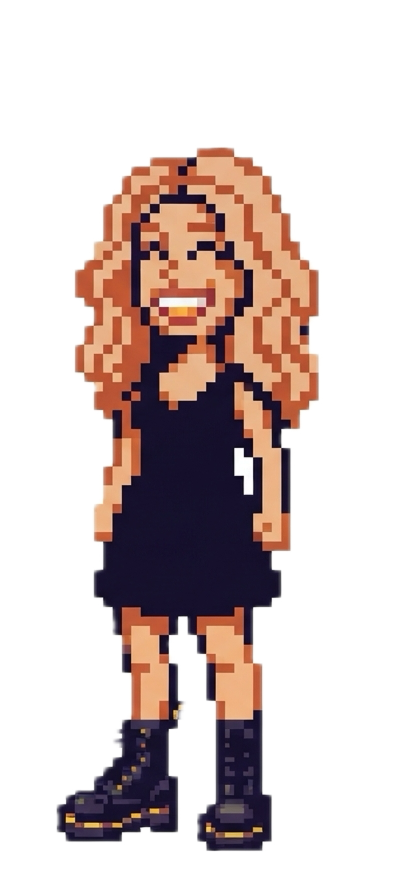
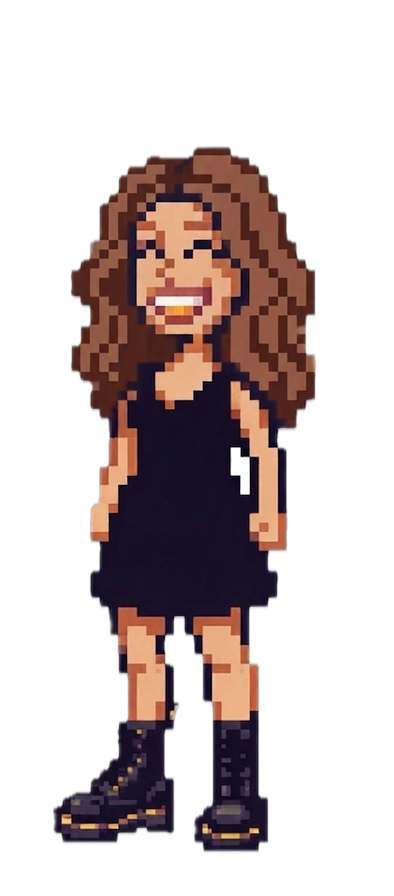
Update Pili art assets, fix character-select flip, and rework RSVP topbar
- Re-export Pili illustrations/sprites and drop unused pose-dancing.png
- Flip Pili's portrait on character select so both characters face each
  other (her source art also faces left by default)
- Swap muted-purple hint/status text for off-white across scenes for
  better contrast
- Fix mobile hero sprite centering so the wedding-outfit swap doesn't
  jump width
- Move the RSVP page's EN/ES language toggle into the topbar and
  restyle it

Changed region(s): [[0.1218, 0.1562, 0.8223, 0.9688], [0.335, 0.6562, 0.3655, 0.6875]]

diff --git a/rsvp/index.html b/rsvp/index.html
@@ -38,6 +38,13 @@
     font-size: 12px;
     letter-spacing: 0.05em;
     padding-bottom: 32px;
+    gap: 12px;
+  }
+
+  .topbar-left {
+    display: flex;
+    align-items: center;
+    gap: 16px;
   }
 
   .topbar .exit { color: var(--off-white); text-decoration: none; }
@@ -47,36 +54,27 @@
   .lang-toggle {
     display: flex;
     align-items: center;
-    justify-content: center;
-    gap: 8px;
-    font-size: 9px;
-    color: var(--muted);
-    margin-bottom: 28px;
+    gap: 5px;
+    font-size: 11px;
   }
 
   .lang-toggle button {
     background: none;
     border: none;
     color: var(--muted);
-    font-family: 'Press Start 2P', monospace;
+    font-family: 'JetBrains Mono', monospace;
+    font-weight: bold;
     font-size: inherit;
+    letter-spacing: 0.05em;
     cursor: pointer;
-    display: inline-flex;
-    flex-direction: column;
-    align-items: center;
-    gap: 4px;
     padding: 0;
   }
 
-  .lang-toggle .underline {
-    width: 22px;
-    height: 2px;
-    background: transparent;
-  }
+  .lang-toggle button:hover { color: var(--gold); }
+  .lang-toggle button.active { color: var(--muted); opacity: 1; }
+  .lang-toggle button:not(.active) { opacity: 0.5; }
 
-  .lang-toggle button.active .underline {
-    background: var(--muted);
-  }
+  .lang-toggle .sep { color: var(--muted); opacity: 0.5; }
 
   h1.heading {
     font-family: 'Press Start 2P', monospace;
@@ -324,15 +322,16 @@
 <div class="page">
 
   <div class="topbar">
-    <a class="exit" href="../" data-i18n="exit">&lsaquo; EXIT</a>
+    <div class="topbar-left">
+      <a class="exit" href="../" data-i18n="exit">&lsaquo; EXIT</a>
+      <div class="lang-toggle">
+        <button type="button" class="active" data-lang="en">EN</button>
+        <span class="sep">/</span>
+        <button type="button" data-lang="es">ES</button>
+      </div>
+    </div>
     <span data-i18n="topbarTitle">LVL 0 &middot; RSVP</span>
     <span class="credits" id="credits">CREDITS 01</span>
-  </div>
-
-  <div class="lang-toggle">
-    <button type="button" class="active" data-lang="en">ENGLISH<span class="underline"></span></button>
-    <span style="padding-bottom:6px;">&middot;</span>
-    <button type="button" data-lang="es">ESPA&Ntilde;OL<span class="underline"></span></button>
   </div>
 
   <form id="rsvp-form">

diff --git a/game/src/scenes/CharacterSelectScene.js b/game/src/scenes/CharacterSelectScene.js
@@ -77,10 +77,10 @@ export class CharacterSelectScene extends Phaser.Scene {
         imgMaxWidth / piliSize.width,
         imgMaxWidth / joeSize.width
       );
-      this._addPortrait('pili-portrait', 'pili', width * 0.26, centerY, { scale: sharedScale });
+      this._addPortrait('pili-portrait', 'pili', width * 0.26, centerY, { scale: sharedScale, flip: true });
       this._addPortrait('joe-portrait', 'joe', width * 0.74, centerY, { scale: sharedScale, flip: true });
     } else {
-      this._addPortrait('pili-portrait', 'pili', width * 0.3, height * 0.55, { maxHeight: height * 0.55, maxWidth: width * 0.42 });
+      this._addPortrait('pili-portrait', 'pili', width * 0.3, height * 0.55, { maxHeight: height * 0.55, maxWidth: width * 0.42, flip: true });
       this._addPortrait('joe-portrait', 'joe', width * 0.7, height * 0.55, { maxHeight: height * 0.55, maxWidth: width * 0.42, flip: true });
     }
 
@@ -88,7 +88,7 @@ export class CharacterSelectScene extends Phaser.Scene {
       .text(width / 2, height - 40, t('charSelectHint'), {
         fontFamily: FONTS.body,
         fontSize: '12px',
-        color: CSS_COLORS.mutedPurple,
+        color: CSS_COLORS.offWhite,
       })
       .setOrigin(0.5);
 
@@ -100,7 +100,7 @@ export class CharacterSelectScene extends Phaser.Scene {
     const img = this.add.image(x, y, textureKey).setInteractive({ useHandCursor: true });
     scale = scale ?? Math.min(1, maxHeight / img.height, maxWidth / img.width);
     img.setScale(scale);
-    img.setFlipX(flip); // mirrors Joe to face Pili so the pair looks at each other
+    img.setFlipX(flip); // both portraits' source art faces left by default, so flip both to face each other
 
     const label = this.add
       .text(x, y + (img.height * scale) / 2 + 20, char.toUpperCase(), {

diff --git a/index.html b/index.html
@@ -128,14 +128,18 @@
     opacity: 1;
   }
 
-  /* Anchor each sprite toward the shared middle edge (and slightly past it,
-     to overlap) instead of centering it in its own half-width box, so the
-     two characters sit close together on a narrow phone. Placed after the
-     base ".sprite img" rule above so it actually wins — same specificity,
+  /* Shift each sprite's centerline toward the other character (and
+     slightly past it, to overlap) instead of centering it in its own
+     half-width box, so the two characters sit close together on a narrow
+     phone. Keeps the base rule's translateX(-50%) centering (only "left"
+     is overridden) so the wedding-outfit image — a different width than
+     the casual one, especially Pilar's dress — stays centered on the same
+     point instead of jumping when it swaps in. Placed after the base
+     ".sprite img" rule above so it actually wins — same specificity,
      later in source. */
   @media (max-width: 720px) {
-    .sprite--joe img { left: auto; right: -10px; transform: none; }
-    .sprite--pilar img { left: -10px; transform: none; }
+    .sprite--joe img { left: calc(50% + 10px); }
+    .sprite--pilar img { left: calc(50% - 10px); }
   }
 
   .title-block {
@@ -164,7 +168,7 @@
     margin-top: min(26px, 3vh);
     line-height: 2;
     text-decoration: none;
-    display: inline-block;
+    display: block;
     transition: color 120ms steps(2);
   }
 
@@ -179,7 +183,7 @@
     animation: blink 1.1s step-end infinite;
     color: inherit;
     text-decoration: none;
-    display: inline-block;
+    display: block;
     transition: color 120ms steps(2);
   }
 

diff --git a/game/src/config/i18n.js b/game/src/config/i18n.js
@@ -9,7 +9,7 @@ const STRINGS = {
   en: {
     charSelectTitle: 'PILAR VS JOE',
     charSelectSubtitle: 'CHOOSE YOUR PLAYER',
-    charSelectHint: 'Tap a character to begin',
+    charSelectHint: 'TAP A CHARACTER TO BEGIN',
     loading: 'LOADING... {pct}%',
 
     level1Title: 'LEVEL 1 — SINGLE LIFE',
@@ -76,7 +76,7 @@ const STRINGS = {
   es: {
     charSelectTitle: 'PILAR VS JOE',
     charSelectSubtitle: 'ELIGE A TU JUGADOR',
-    charSelectHint: 'Toca a un personaje para empezar',
+    charSelectHint: 'TOCA A UN PERSONAJE PARA EMPEZAR',
     loading: 'CARGANDO... {pct}%',
 
     level1Title: 'NIVEL 1 — SOLTERÍA',

diff --git a/game/src/scenes/FinalBossScene.js b/game/src/scenes/FinalBossScene.js
@@ -52,7 +52,6 @@ export class FinalBossScene extends Phaser.Scene {
     this.proposalArt = this.add.image(this.centerX, this.centerY - 105, 'pose-proposal');
     const maxArtHeight = this.scale.height * 0.34;
     this.proposalArt.setScale(Math.min(1, maxArtHeight / this.proposalArt.height));
-    this.proposalArt.setDepth(10);
 
     this.flow = new BossIntroFlow(this, { centerX: this.centerX, centerY: this.centerY + 60 });
     this.state = 'intro';

diff --git a/game/src/scenes/Level2BossScene.js b/game/src/scenes/Level2BossScene.js
@@ -115,7 +115,7 @@ export class Level2BossScene extends Phaser.Scene {
         .text(this.centerX, this.centerY + 175, t('coinsLabel', { count: 0, target: MASH.payTarget }), {
           fontFamily: FONTS.body,
           fontSize: '12px',
-          color: CSS_COLORS.mutedPurple,
+          color: CSS_COLORS.offWhite,
         })
         .setOrigin(0.5);
       touchControls.bind(this.actions, { actionLabel: HOUSE_BOSS_PAY_LABEL() });

diff --git a/game/src/scenes/EndingScene.js b/game/src/scenes/EndingScene.js
@@ -62,7 +62,7 @@ export class EndingScene extends Phaser.Scene {
         .text(centerX, height - 100, t('rsvpComingSoon'), {
           fontFamily: FONTS.body,
           fontSize: '12px',
-          color: CSS_COLORS.mutedPurple,
+          color: CSS_COLORS.offWhite,
         })
         .setOrigin(0.5);
     }

diff --git a/game/src/scenes/Level1BossScene.js b/game/src/scenes/Level1BossScene.js
@@ -58,7 +58,7 @@ export class Level1BossScene extends Phaser.Scene {
       .text(this.centerX, this.centerY + 135, '', {
         fontFamily: FONTS.body,
         fontSize: '12px',
-        color: CSS_COLORS.mutedPurple,
+        color: CSS_COLORS.offWhite,
       })
       .setOrigin(0.5)
       .setDepth(10);

diff --git a/game/src/scenes/Level2JourneyScene.js b/game/src/scenes/Level2JourneyScene.js
@@ -94,7 +94,7 @@ export class Level2JourneyScene extends Phaser.Scene {
       .text(this.centerX, height - 60, '', {
         fontFamily: FONTS.body,
         fontSize: '12px',
-        color: CSS_COLORS.mutedPurple,
+        color: CSS_COLORS.offWhite,
       })
       .setOrigin(0.5);
 
